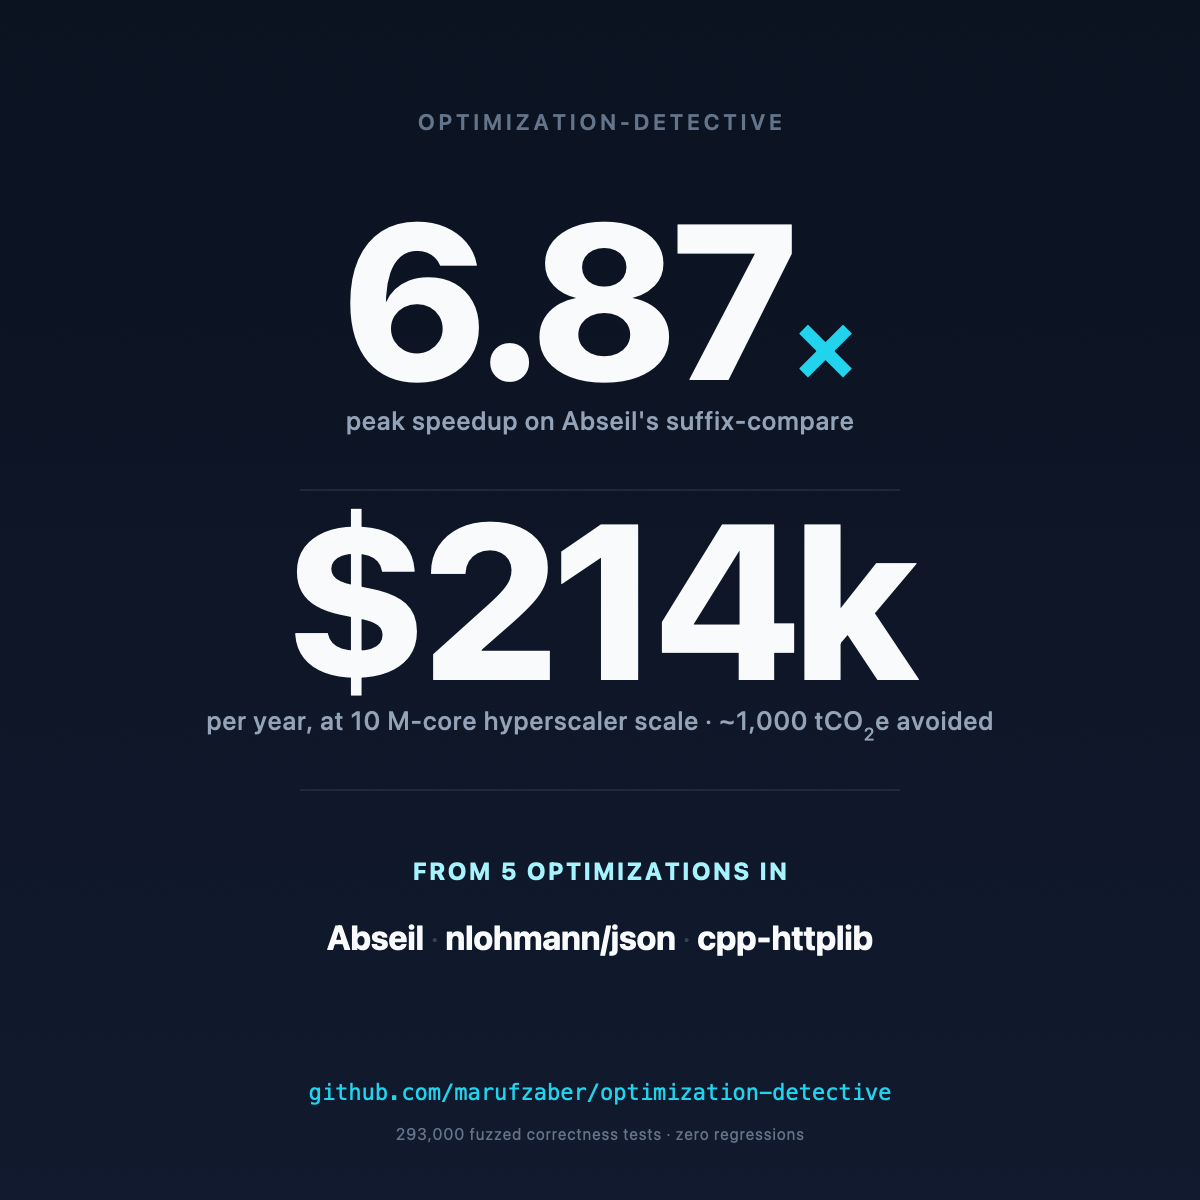
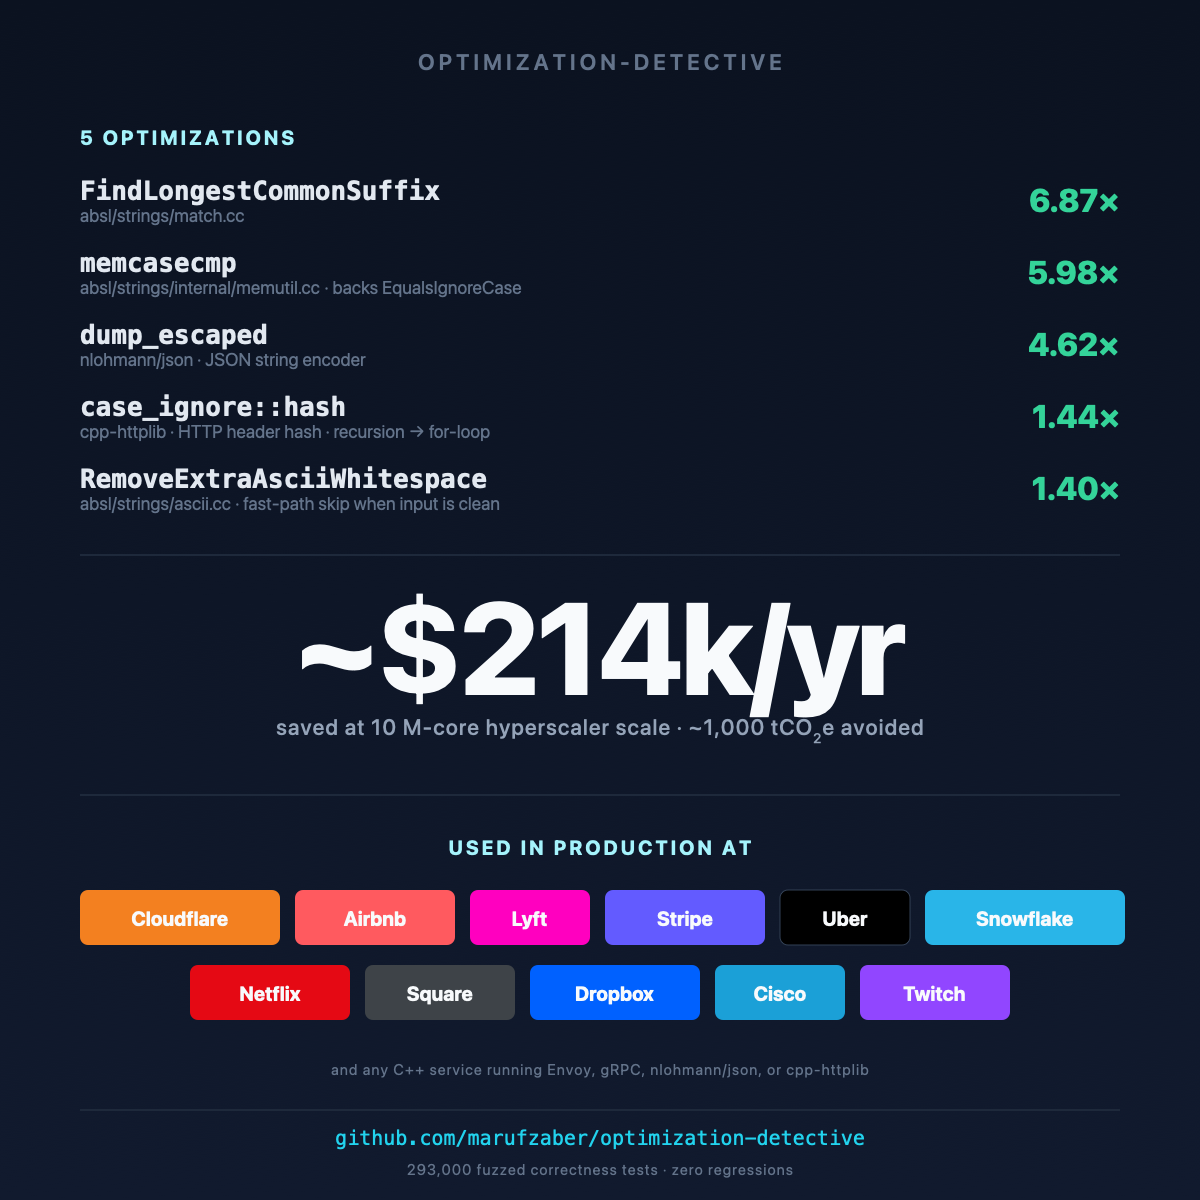
Public-ready pass: remove drafts, redesign photocard, add trademark note
- Delete LINKEDIN_POST.md (was working draft, not part of the artifact).
  - Redesign photocard: now lists all five optimizations by name with
    library attribution and per-function speedup, keeps the ~$214k/yr
    hyperscaler-scale headline, and adds an 11-brand chip row for the
    downstream production users (Cloudflare, Airbnb, Lyft, Stripe, Uber,
    Snowflake, Netflix, Square, Dropbox, Cisco, Twitch) in their signature
    brand colors. Brand-color chips instead of literal logos to avoid
    trademark-usage ambiguity.
  - Embed photocard.png at the top of README.md so the summary card is
    the first thing a repo visitor sees.
  - Add a "Trademark notice" section clarifying that company names are
    factual production-deployment references, not endorsement.

diff --git a/README.md b/README.md
@@ -1,5 +1,7 @@
 # optimization-detective
 
+![Summary card](photocard.png)
+
 Five simple, drop-in performance patches to widely-used open-source C++ libraries — Abseil, nlohmann/json, and cpp-httplib — with reproducible microbenchmarks, exhaustive correctness verification, safety analysis, and fleet-scale $ / CO₂ math.
 
 **The whole point:** each optimization can be explained in one sentence a non-C++-engineer can follow. Then the numbers land.
@@ -92,6 +94,10 @@ Each `src/*/original.h` contains verbatim (or lightly adapted) code lifted from 
 - cpp-httplib: MIT (© Yuji Hirose)
 
 Full upstream license texts land under `third_party/*/LICENSE*` after `./bootstrap.sh`. My contributions (optimized code, tests, benchmarks, harness, docs) are MIT-licensed — see [LICENSE](LICENSE).
+
+## Trademark notice
+
+Company names appearing in this repository (Cloudflare, Airbnb, Lyft, Stripe, Uber, Snowflake, Netflix, Square, Dropbox, Cisco, Twitch, etc.) are used only to describe where the underlying open-source libraries are deployed in production. Their appearance is factual reference, not endorsement, sponsorship, or affiliation. All trademarks are the property of their respective owners.
 
 ## The meta-lesson
 
